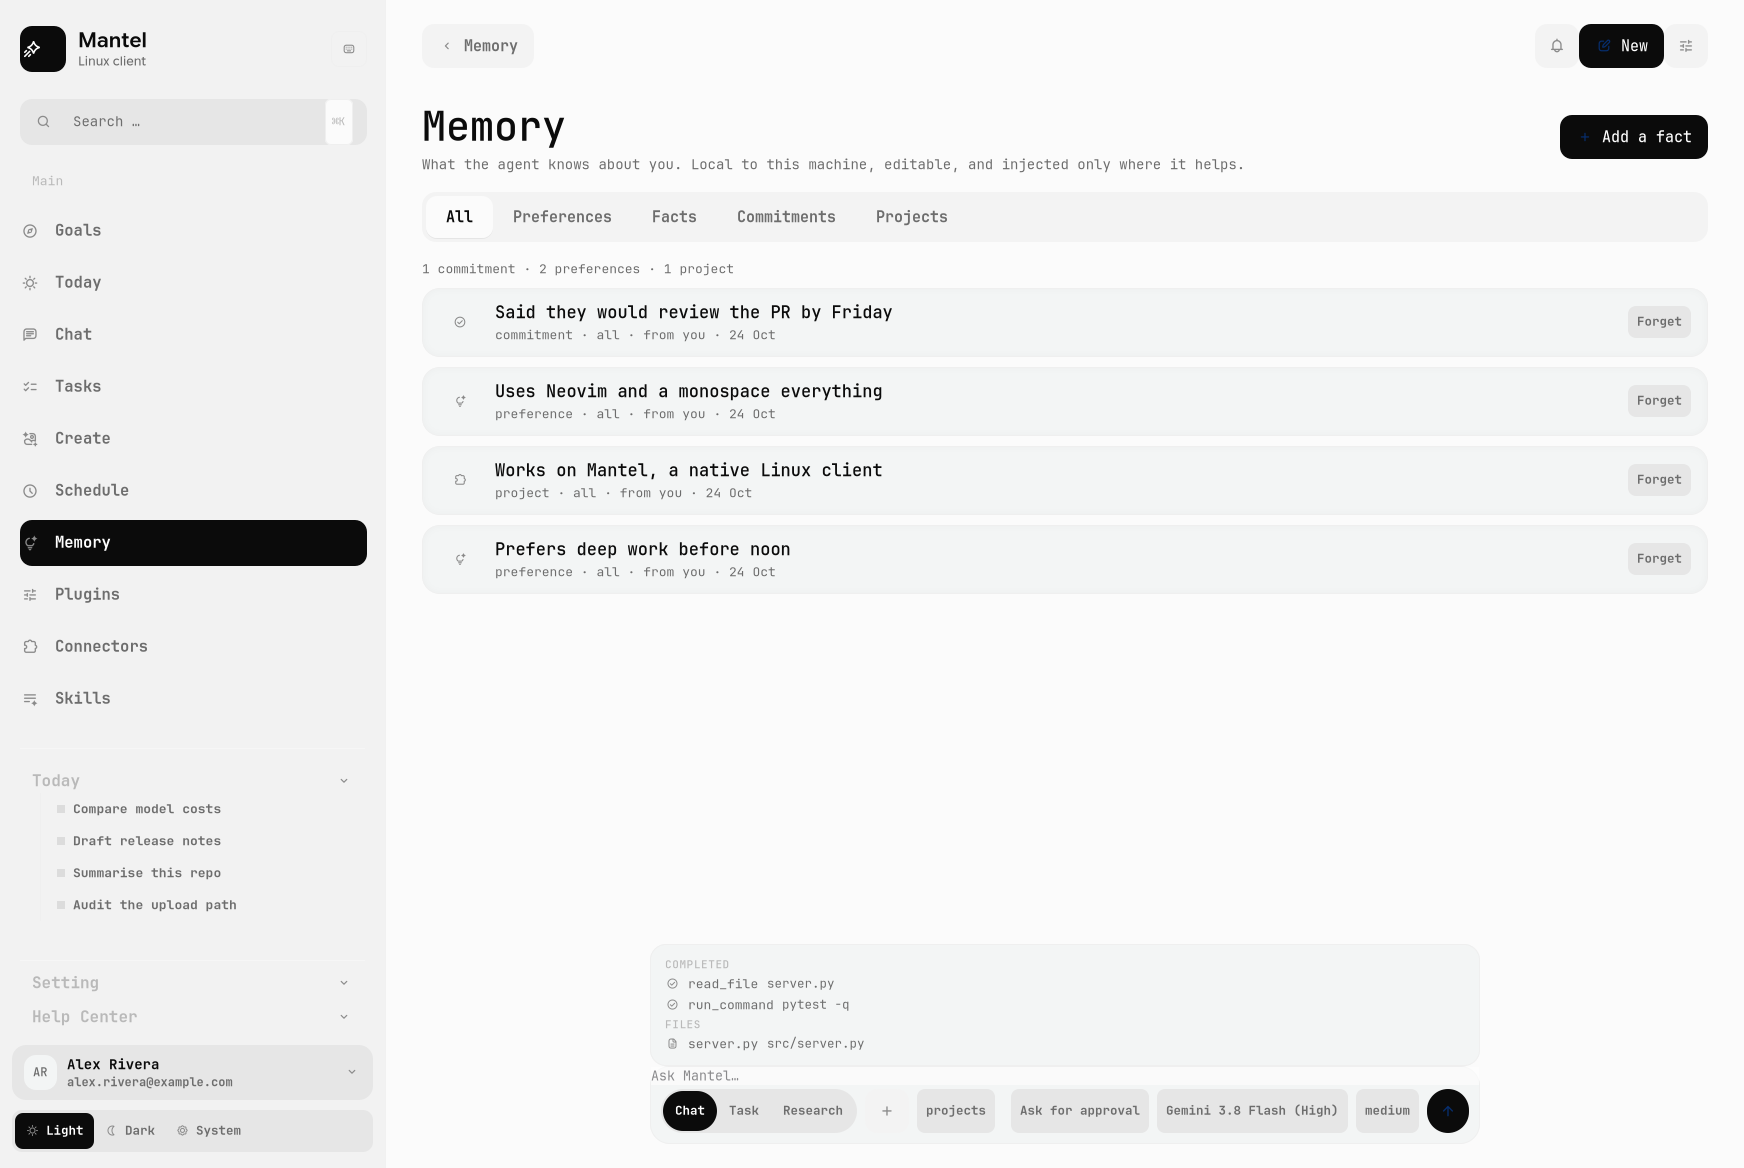
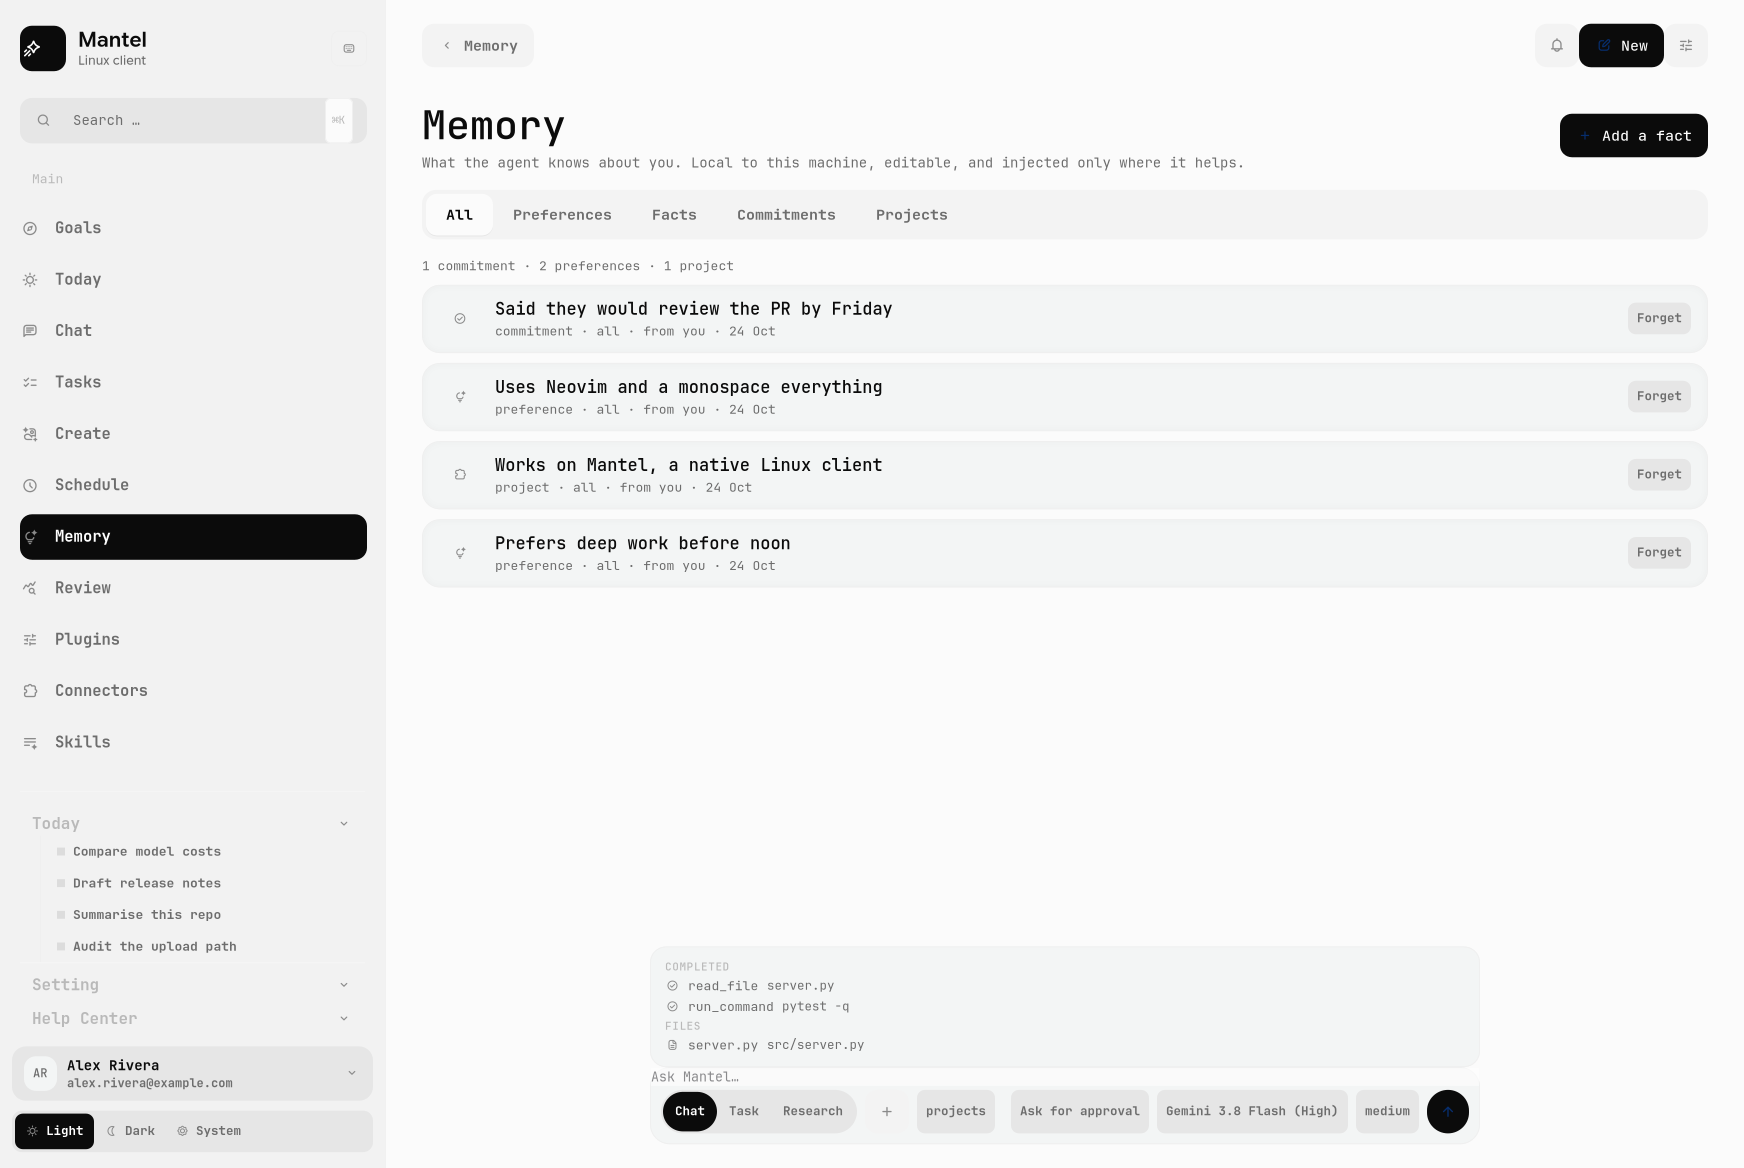
feat(review): the page, and the focus log it reads
- **Review** is a rail surface: four counted tiles (done, overdue, focus,
  calendar) with the week's dates and the delta against last week, then "What
  moved", "What slipped", "Learned about you", and what is still open.
- **"Write it with the agent"** starts a Task-mode thread with the computed
  brief, so the prose sits next to the evidence it is based on.
- **Focus sessions are now logged** when a timer completes — that is what makes
  "2.1h focus · 4 sessions" true rather than decorative.
- Review refreshes with tasks, memory, calendar and focus changes; demo mode
  seeds a week of completions and sessions so the page is real in screenshots.

README and vision updated: P1's weekly review is shipped; time-blocking,
bounded proactivity and memory connectors remain.

diff --git a/app/pages/review.py b/app/pages/review.py
@@ -1,0 +1,216 @@
+"""Review: the week, from the app's own records.
+
+The numbers are computed (`app/review.py`); the prose is the agent's job, behind
+one button. That split is deliberate — a model is good at saying what a week
+felt like, and bad at being trusted with arithmetic.
+"""
+from __future__ import annotations
+
+import time
+from collections.abc import Callable
+from datetime import datetime
+
+import gi
+
+gi.require_version("Gtk", "4.0")
+from gi.repository import Gtk  # noqa: E402
+
+from app import review as store
+from app import theme  # noqa: F401  (registers the bundled fonts)
+from app.cards import (body, card, divider, eyebrow, hspacer, metric,
+                       pill_button, section_title, spacer)
+
+
+def _hours(minutes: int) -> str:
+    return f"{round(minutes / 60.0, 1)}h" if minutes else "0h"
+
+
+class ReviewPage(Gtk.Box):
+    """The week in numbers, with a button to have it written up."""
+
+    def __init__(self, on_write: Callable[[str], None] | None = None) -> None:
+        super().__init__(orientation=Gtk.Orientation.VERTICAL, spacing=0)
+        self.add_css_class("content")
+        self.set_margin_start(36)
+        self.set_margin_end(36)
+        self.set_margin_top(8)
+        self.set_margin_bottom(28)
+        self._on_write = on_write or (lambda _prompt: None)
+
+        head = Gtk.Box(orientation=Gtk.Orientation.HORIZONTAL, spacing=12)
+        titles = Gtk.Box(orientation=Gtk.Orientation.VERTICAL, spacing=2)
+        titles.append(eyebrow(time.strftime("%A · %d %B").upper()))
+        title = Gtk.Label(label="Review", xalign=0)
+        title.add_css_class("hero-title")
+        titles.append(title)
+        titles.append(body("What actually happened this week — counted locally, "
+                           "not remembered generously."))
+        head.append(titles)
+        head.append(hspacer())
+        write = pill_button("Write it with the agent", "chat", primary=True,
+                            on_click=self._write)
+        write.set_valign(Gtk.Align.CENTER)
+        head.append(write)
+        self.append(head)
+        self.append(spacer(height=20))
+
+        self._body = Gtk.Box(orientation=Gtk.Orientation.VERTICAL, spacing=18)
+        self.append(self._body)
+        self.refresh()
+
+    # -- data ---------------------------------------------------------------
+    def refresh(self) -> None:
+        while (child := self._body.get_first_child()) is not None:
+            self._body.remove(child)
+
+        stats = store.stats()
+        previous = store.previous_week()
+
+        self._body.append(self._numbers(stats, previous))
+
+        columns = Gtk.Box(orientation=Gtk.Orientation.HORIZONTAL, spacing=20)
+        columns.set_hexpand(True)
+        self._body.append(columns)
+
+        left = Gtk.Box(orientation=Gtk.Orientation.VERTICAL, spacing=18)
+        left.set_hexpand(True)
+        columns.append(left)
+        left.append(self._list_card("What moved", stats.completed,
+                                    stats.completed_titles,
+                                    empty="Nothing finished this week."))
+        left.append(self._list_card("What slipped", stats.overdue,
+                                    stats.overdue_titles,
+                                    empty="Nothing overdue. Rare and good."))
+
+        right = Gtk.Box(orientation=Gtk.Orientation.VERTICAL, spacing=18)
+        right.set_size_request(430, -1)
+        columns.append(right)
+        right.append(self._learned_card(stats))
+        right.append(self._next_card(stats))
+
+    def _numbers(self, stats: store.Stats, previous: store.Stats) -> Gtk.Widget:
+        panel = card()
+        row = Gtk.Box(orientation=Gtk.Orientation.HORIZONTAL, spacing=0)
+        for margin in ("start", "end"):
+            getattr(row, f"set_margin_{margin}")(8)
+
+        delta_done = stats.completed - previous.completed
+        tiles = (
+            ("check_circle", str(stats.completed),
+             f"done · {delta_done:+d} vs last week" if previous.completed
+             else "done"),
+            ("notifications", str(stats.overdue), "overdue"),
+            ("bolt", _hours(stats.focus_minutes),
+             f"focus · {stats.focus_sessions} sessions"),
+            ("calendar_month", f"{stats.event_hours:g}h",
+             f"{stats.events} events"),
+        )
+        for index, (icon, value, caption) in enumerate(tiles):
+            if index:
+                row.append(divider())
+            tile = Gtk.Box(orientation=Gtk.Orientation.VERTICAL, spacing=2)
+            tile.set_hexpand(True)
+            for margin in ("start", "end", "top", "bottom"):
+                getattr(tile, f"set_margin_{margin}")(16)
+            tile.append(metric(value, caption))
+            row.append(tile)
+
+        panel.append(row)
+        week = (f"{datetime.fromtimestamp(stats.start):%d %b} – "
+                f"{datetime.fromtimestamp(stats.end - 1):%d %b}")
+        wrapper = Gtk.Box(orientation=Gtk.Orientation.VERTICAL, spacing=0)
+        label = Gtk.Label(label=f"Week of {week}", xalign=0)
+        label.add_css_class("metric-sub")
+        label.set_margin_start(18)
+        label.set_margin_bottom(4)
+        wrapper.append(label)
+        wrapper.append(panel)
+        return wrapper
+
+    def _list_card(self, title: str, count: int, items: list[str],
+                   *, empty: str) -> Gtk.Widget:
+        panel = card()
+        inner = Gtk.Box(orientation=Gtk.Orientation.VERTICAL, spacing=0)
+        for margin in ("start", "end"):
+            getattr(inner, f"set_margin_{margin}")(18)
+        inner.set_margin_top(14)
+        inner.set_margin_bottom(14)
+
+        head = Gtk.Box(orientation=Gtk.Orientation.HORIZONTAL, spacing=8)
+        label = Gtk.Label(label=title, xalign=0)
+        label.add_css_class("card-title")
+        head.append(label)
+        head.append(hspacer())
+        chip = Gtk.Label(label=str(count))
+        chip.add_css_class("chip-grade")
+        head.append(chip)
+        inner.append(head)
+
+        if not items:
+            copy = body(empty)
+            copy.set_margin_top(8)
+            inner.append(copy)
+        else:
+            for item in items:
+                line = Gtk.Label(label=f"· {item}", xalign=0)
+                line.set_wrap(True)
+                line.add_css_class("metric-sub")
+                line.set_margin_top(5)
+                inner.append(line)
+        panel.append(inner)
+        return panel
+
+    def _learned_card(self, stats: store.Stats) -> Gtk.Widget:
+        panel = card()
+        inner = Gtk.Box(orientation=Gtk.Orientation.VERTICAL, spacing=0)
+        for margin in ("start", "end"):
+            getattr(inner, f"set_margin_{margin}")(18)
+        inner.set_margin_top(14)
+        inner.set_margin_bottom(14)
+
+        head = Gtk.Box(orientation=Gtk.Orientation.HORIZONTAL, spacing=8)
+        head.append(theme.icon("lightbulb_tips", 16))
+        label = Gtk.Label(label="Learned about you", xalign=0)
+        label.add_css_class("card-title")
+        head.append(label)
+        inner.append(head)
+
+        if not stats.facts:
+            copy = body("Nothing new recorded this week.")
+            copy.set_margin_top(8)
+            inner.append(copy)
+        for fact in stats.facts:
+            line = Gtk.Label(label=f"· {fact}", xalign=0)
+            line.set_wrap(True)
+            line.add_css_class("metric-sub")
+            line.set_margin_top(5)
+            inner.append(line)
+        panel.append(inner)
+        return panel
+
+    def _next_card(self, stats: store.Stats) -> Gtk.Widget:
+        panel = card(inset=True)
+        inner = Gtk.Box(orientation=Gtk.Orientation.VERTICAL, spacing=4)
+        for margin in ("start", "end"):
+            getattr(inner, f"set_margin_{margin}")(18)
+        inner.set_margin_top(12)
+        inner.set_margin_bottom(12)
+
+        if stats.open_now:
+            line = f"{stats.open_now} task{'s' if stats.open_now != 1 else ''} " \
+                   f"still open going into next week."
+        else:
+            line = "Nothing open. The week is genuinely closed."
+        copy = body(line)
+        inner.append(copy)
+        note = Gtk.Label(
+            label="The agent writes the narrative; these numbers are the input.",
+            xalign=0)
+        note.add_css_class("metric-sub")
+        inner.append(note)
+        panel.append(inner)
+        return panel
+
+    # -- actions ------------------------------------------------------------
+    def _write(self) -> None:
+        self._on_write(store.agent_prompt(store.stats()))

diff --git a/app/window.py b/app/window.py
@@ -36,6 +36,7 @@ PAGES = (
     ("create", "Create", "add_image_spark", engine_mod.IMAGES),
     ("schedule", "Schedule", "schedule", engine_mod.CHAT),
     ("memory", "Memory", "lightbulb", engine_mod.CHAT),
+    ("review", "Review", "query_stats", engine_mod.CHAT),
     ("plugins", "Plugins", "tune", engine_mod.CHAT),
     ("connectors", "Connectors", "extension", engine_mod.CONNECTORS),
     ("skills", "Skills", "notes_spark", engine_mod.SKILLS),
@@ -271,6 +272,13 @@ class Window(Adw.ApplicationWindow):
         except Exception:  # noqa: BLE001
             self.today_page = None
         try:
+            from app.pages.review import ReviewPage  # noqa: PLC0415
+            self.review_page = ReviewPage(on_write=self._write_review)
+            self._pages.add_named(self._own_scroller(self.review_page),
+                                  "review")
+        except Exception:  # noqa: BLE001
+            self.review_page = None
+        try:
             from app.pages.plugins import PluginsPage  # noqa: PLC0415
             self.plugins_page = PluginsPage(on_changed=self._refresh_plugins)
             self._pages.add_named(self._own_scroller(self.plugins_page),
@@ -418,6 +426,22 @@ class Window(Adw.ApplicationWindow):
         if page is not None:
             page.refresh()
         self._refresh_today()
+        self._refresh_review()
+
+    def _refresh_review(self) -> None:
+        page = getattr(self, "review_page", None)
+        if page is not None:
+            page.refresh()
+
+    def _write_review(self, prompt: str) -> None:
+        """Hand the computed week to the agent and let it write the prose."""
+        self._go("chat")
+        self.composer.set_mode(session_mod.MODE_TASK)
+        self.session.mode = session_mod.MODE_TASK
+        buf = self.composer.view.get_buffer()
+        buf.set_text(prompt)
+        self.composer.view.set_opacity(1.0)
+        self.composer.focus()
 
     def _refresh_plugins(self) -> None:
         page = getattr(self, "plugins_page", None)
@@ -467,9 +491,15 @@ class Window(Adw.ApplicationWindow):
             self._refresh_sidebar()
 
     def _on_focus_done(self, *_args) -> None:
-        """A focus session ended: say so once, without stealing focus."""
+        """A focus session ended: log it, say so once, refresh the review."""
+        page = getattr(self, "today_page", None)
+        if page is not None:
+            from app import review  # noqa: PLC0415
+
+            review.record_focus(max(1, page.focus.total // 60))
         self._notify("Focus session complete",
                      "Time for a break — or start another.")
+        self._refresh_review()
 
     def _refresh_memory(self) -> None:
         page = getattr(self, "memory", None)
@@ -600,6 +630,18 @@ I also added a regression test for the missing check.
             pass
 
         try:
+            from app import review as review_mod  # noqa: PLC0415
+
+            for minutes in (25, 25, 50, 25):
+                review_mod.record_focus(minutes,
+                                        finished=_time.time() - 3600)
+            page = getattr(self, "review_page", None)
+            if page is not None:
+                page.refresh()
+        except Exception:  # noqa: BLE001
+            pass
+
+        try:
             import datetime as _dt  # noqa: PLC0415
 
             from app import calendar as calendar_mod  # noqa: PLC0415
@@ -648,9 +690,12 @@ END:VCALENDAR
                           "Draft the weekly note on Monday",
                           "Someday: read the durable harness docs"):
                 todos_mod.add(title)
-            done = todos_mod.add("Send the status update", due=0)
-            if done is not None:
-                todos_mod.complete(done.id)
+            for finished in ("Send the status update",
+                             "Fix the crash on startup",
+                             "Reply to the design thread"):
+                task = todos_mod.add(finished, due=0)
+                if task is not None:
+                    todos_mod.complete(task.id)
             page = getattr(self, "tasks", None)
             if page is not None:
                 page.refresh()
@@ -989,6 +1034,18 @@ END:VCALENDAR
             pass
 
         try:
+            from app import review as review_mod  # noqa: PLC0415
+
+            for minutes in (25, 25, 50, 25):
+                review_mod.record_focus(minutes,
+                                        finished=_time.time() - 3600)
+            page = getattr(self, "review_page", None)
+            if page is not None:
+                page.refresh()
+        except Exception:  # noqa: BLE001
+            pass
+
+        try:
             import datetime as _dt  # noqa: PLC0415
 
             from app import calendar as calendar_mod  # noqa: PLC0415
@@ -1037,9 +1094,12 @@ END:VCALENDAR
                           "Draft the weekly note on Monday",
                           "Someday: read the durable harness docs"):
                 todos_mod.add(title)
-            done = todos_mod.add("Send the status update", due=0)
-            if done is not None:
-                todos_mod.complete(done.id)
+            for finished in ("Send the status update",
+                             "Fix the crash on startup",
+                             "Reply to the design thread"):
+                task = todos_mod.add(finished, due=0)
+                if task is not None:
+                    todos_mod.complete(task.id)
             page = getattr(self, "tasks", None)
             if page is not None:
                 page.refresh()

diff --git a/app/main.py b/app/main.py
@@ -193,7 +193,7 @@ def main(argv: list[str] | None = None) -> int:
                     choices=("home", "chat", "tasks", "schedule",
                              "connectors", "skills", "account",
                              "settings", "create", "memory", "today",
-                             "plugins"),
+                             "plugins", "review"),
                     help="which page to open on start")
     ap.add_argument("--scheme", default="light",
                     choices=("light", "dark", "system"),

diff --git a/tools/make_screenshots.py b/tools/make_screenshots.py
@@ -39,7 +39,7 @@ WIDTH, HEIGHT = 1744, 1168
 
 #: Pages to capture, in the order they should appear in the docs.
 PAGES = ("home", "today", "chat", "tasks", "create", "schedule", "memory",
-         "plugins", "connectors", "skills", "settings")
+         "review", "plugins", "connectors", "skills", "settings")
 
 
 def _make_window(application, *, page: str, scheme: str = "light"):

diff --git a/README.md b/README.md
@@ -34,6 +34,10 @@ a native Linux surface — without owning the intelligence itself.
 - **Today** is the home screen: what is due (overdue first), what is next this
   week, what the agent remembers, and the agent itself — with a quick-add box
   that turns "pay the invoice tomorrow at 5pm" into a dated task.
+- **Weekly review**: counted from the app's own records — tasks finished,
+  what slipped, focus hours, calendar hours, facts learned, compared with last
+  week — with one button that hands those numbers to the agent to write the
+  narrative.
 - **Calendar, read-only**: point it at an `.ics` export from any provider and
   the day's events appear on Today and in Settings — no account, no OAuth, no
   network. Recurrences (daily, weekly, monthly) and all-day events are
@@ -95,7 +99,7 @@ a native Linux surface — without owning the intelligence itself.
 | ![Create](docs/screenshots/create.png) | ![Scheduled](docs/screenshots/schedule.png) |
 | ![Memory](docs/screenshots/memory.png) | ![Settings](docs/screenshots/settings.png) |
 | ![Overview dashboard](docs/screenshots/home.png) | ![Command palette](docs/screenshots/palette.png) |
-| ![Plugins](docs/screenshots/plugins.png) | ![Tasks](docs/screenshots/tasks.png) |
+| ![Plugins](docs/screenshots/plugins.png) | ![Weekly review](docs/screenshots/review.png) |
 
 Every image is an offscreen render of the real widget tree, produced by
 `tools/make_screenshots.py`. They use demo data, so no real account or path

diff --git a/docs/VISION.md b/docs/VISION.md
@@ -132,8 +132,10 @@ is the chassis. Here is what hangs on it.
 > (`app/pages/today.py`, `app/focus.py`); **capture and the command palette**
 > (`app/palette.py`, `mantel --capture …`); and **read-only calendar** from
 > `.ics` files (`app/calendar.py`), with recurrences expanded into the day.
-> **P0 is complete.** The next product phase is P1: time-blocking proposals,
-> bounded proactivity, memory connectors, and the weekly review.
+> **P0 is complete.** P1 has started: the **weekly review** now counts the
+> week from local records (tasks, focus log, calendar, memory) and hands the
+> numbers to the agent for the narrative. Still open in P1: time-blocking
+> proposals, bounded proactivity and memory connectors.
 
 | # | Feature | Why it earns the open | Acceptance |
 |---|---|---|---|
